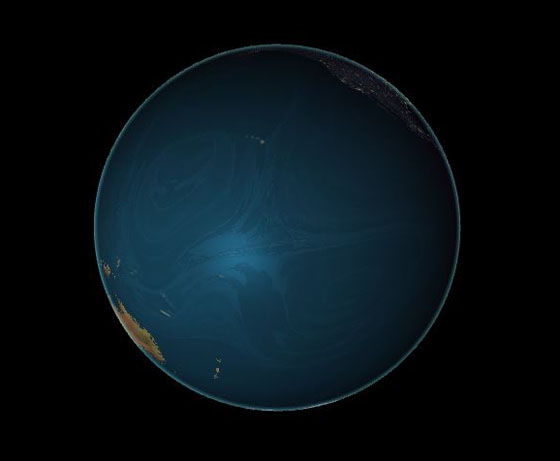
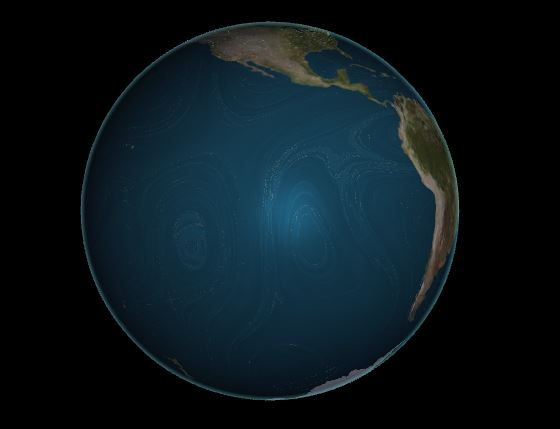
edit water animation

Changed region(s): [[0.1214, 0.0303, 0.8196, 0.9394], [0.3643, 0.7879, 0.3946, 0.8182]]

diff --git a/frag_globe.html b/frag_globe.html
@@ -78,7 +78,8 @@
 
     mat3 eastNorthUpToEyeCoordinates(vec3 positionMC, vec3 normalEC);
 
-    float perlinNoise(vec3 v);
+    //float perlinNoise(vec3 v);
+	float snoise(vec3 v);
 
     void main(void)
     {
@@ -108,11 +109,11 @@
         specular = (oceamTerm > 0.0) ? specular : 0.0;
         
         vec3 dayColor = texture2D(u_DayDiffuse, v_Texcoord).rgb;
-        if (u_movingOceanDisplay == 1 && oceamTerm > 0.0) {
-            float noise = perlinNoise(v_Position+u_time);
+        if (u_movingOceanDisplay == 1 && oceamTerm > 0.5) {
+            float noise = snoise(v_Position+u_time);
             float offsetOceanTerm = texture2D(u_EarthSpec, v_Texcoord+vec2(noise, 0.0)).r;
             vec3 offsetColor = texture2D(u_DayDiffuse, v_Texcoord+vec2(noise, 0.0)).rgb;
-            dayColor = (offsetOceanTerm > 0.8 && offsetColor.r < 0.8) ? offsetColor : dayColor;
+            dayColor = (offsetOceanTerm > 0.5) ? offsetColor : dayColor;
         }
             
         vec3 nightColor = texture2D(u_Night, v_Texcoord).rgb;
@@ -156,33 +157,16 @@
             normalEC.x,    normalEC.y,    normalEC.z);
     }
 
-//
-// GLSL textureless classic 3D noise "cnoise",
-// with an RSL-style periodic variant "pnoise".
-// Author:  Stefan Gustavson (stefan.gustavson@liu.se)
-// Version: 2011-10-11
-//
-// Many thanks to Ian McEwan of Ashima Arts for the
-// ideas for permutation and gradient selection.
-//
-// Copyright (c) 2011 Stefan Gustavson. All rights reserved.
-// Distributed under the MIT license. See LICENSE file.
-// https://github.com/ashima/webgl-noise
-//
-
-vec3 mod289(vec3 x)
-{
+vec3 mod289(vec3 x) {
   return x - floor(x * (1.0 / 289.0)) * 289.0;
 }
 
-vec4 mod289(vec4 x)
-{
+vec4 mod289(vec4 x) {
   return x - floor(x * (1.0 / 289.0)) * 289.0;
 }
 
-vec4 permute(vec4 x)
-{
-  return mod289(((x*34.0)+1.0)*x);
+vec4 permute(vec4 x) {
+     return mod289(((x*34.0)+1.0)*x);
 }
 
 vec4 taylorInvSqrt(vec4 r)
@@ -190,79 +174,80 @@ vec4 taylorInvSqrt(vec4 r)
   return 1.79284291400159 - 0.85373472095314 * r;
 }
 
-vec3 fade(vec3 t) {
-  return t*t*t*(t*(t*6.0-15.0)+10.0);
-}
+float snoise(vec3 v)
+  { 
+  const vec2  C = vec2(1.0/6.0, 1.0/3.0) ;
+  const vec4  D = vec4(0.0, 0.5, 1.0, 2.0);
 
-// Classic Perlin noise
-float perlinNoise(vec3 P)
-{
-  vec3 Pi0 = floor(P); // Integer part for indexing
-  vec3 Pi1 = Pi0 + vec3(1.0); // Integer part + 1
-  Pi0 = mod289(Pi0);
-  Pi1 = mod289(Pi1);
-  vec3 Pf0 = fract(P); // Fractional part for interpolation
-  vec3 Pf1 = Pf0 - vec3(1.0); // Fractional part - 1.0
-  vec4 ix = vec4(Pi0.x, Pi1.x, Pi0.x, Pi1.x);
-  vec4 iy = vec4(Pi0.yy, Pi1.yy);
-  vec4 iz0 = Pi0.zzzz;
-  vec4 iz1 = Pi1.zzzz;
+// First corner
+  vec3 i  = floor(v + dot(v, C.yyy) );
+  vec3 x0 =   v - i + dot(i, C.xxx) ;
 
-  vec4 ixy = permute(permute(ix) + iy);
-  vec4 ixy0 = permute(ixy + iz0);
-  vec4 ixy1 = permute(ixy + iz1);
+// Other corners
+  vec3 g = step(x0.yzx, x0.xyz);
+  vec3 l = 1.0 - g;
+  vec3 i1 = min( g.xyz, l.zxy );
+  vec3 i2 = max( g.xyz, l.zxy );
 
-  vec4 gx0 = ixy0 * (1.0 / 7.0);
-  vec4 gy0 = fract(floor(gx0) * (1.0 / 7.0)) - 0.5;
-  gx0 = fract(gx0);
-  vec4 gz0 = vec4(0.5) - abs(gx0) - abs(gy0);
-  vec4 sz0 = step(gz0, vec4(0.0));
-  gx0 -= sz0 * (step(0.0, gx0) - 0.5);
-  gy0 -= sz0 * (step(0.0, gy0) - 0.5);
+  //   x0 = x0 - 0.0 + 0.0 * C.xxx;
+  //   x1 = x0 - i1  + 1.0 * C.xxx;
+  //   x2 = x0 - i2  + 2.0 * C.xxx;
+  //   x3 = x0 - 1.0 + 3.0 * C.xxx;
+  vec3 x1 = x0 - i1 + C.xxx;
+  vec3 x2 = x0 - i2 + C.yyy; // 2.0*C.x = 1/3 = C.y
+  vec3 x3 = x0 - D.yyy;      // -1.0+3.0*C.x = -0.5 = -D.y
 
-  vec4 gx1 = ixy1 * (1.0 / 7.0);
-  vec4 gy1 = fract(floor(gx1) * (1.0 / 7.0)) - 0.5;
-  gx1 = fract(gx1);
-  vec4 gz1 = vec4(0.5) - abs(gx1) - abs(gy1);
-  vec4 sz1 = step(gz1, vec4(0.0));
-  gx1 -= sz1 * (step(0.0, gx1) - 0.5);
-  gy1 -= sz1 * (step(0.0, gy1) - 0.5);
+// Permutations
+  i = mod289(i); 
+  vec4 p = permute( permute( permute( 
+             i.z + vec4(0.0, i1.z, i2.z, 1.0 ))
+           + i.y + vec4(0.0, i1.y, i2.y, 1.0 )) 
+           + i.x + vec4(0.0, i1.x, i2.x, 1.0 ));
 
-  vec3 g000 = vec3(gx0.x,gy0.x,gz0.x);
-  vec3 g100 = vec3(gx0.y,gy0.y,gz0.y);
-  vec3 g010 = vec3(gx0.z,gy0.z,gz0.z);
-  vec3 g110 = vec3(gx0.w,gy0.w,gz0.w);
-  vec3 g001 = vec3(gx1.x,gy1.x,gz1.x);
-  vec3 g101 = vec3(gx1.y,gy1.y,gz1.y);
-  vec3 g011 = vec3(gx1.z,gy1.z,gz1.z);
-  vec3 g111 = vec3(gx1.w,gy1.w,gz1.w);
+// Gradients: 7x7 points over a square, mapped onto an octahedron.
+// The ring size 17*17 = 289 is close to a multiple of 49 (49*6 = 294)
+  float n_ = 0.142857142857; // 1.0/7.0
+  vec3  ns = n_ * D.wyz - D.xzx;
 
-  vec4 norm0 = taylorInvSqrt(vec4(dot(g000, g000), dot(g010, g010), dot(g100, g100), dot(g110, g110)));
-  g000 *= norm0.x;
-  g010 *= norm0.y;
-  g100 *= norm0.z;
-  g110 *= norm0.w;
-  vec4 norm1 = taylorInvSqrt(vec4(dot(g001, g001), dot(g011, g011), dot(g101, g101), dot(g111, g111)));
-  g001 *= norm1.x;
-  g011 *= norm1.y;
-  g101 *= norm1.z;
-  g111 *= norm1.w;
+  vec4 j = p - 49.0 * floor(p * ns.z * ns.z);  //  mod(p,7*7)
 
-  float n000 = dot(g000, Pf0);
-  float n100 = dot(g100, vec3(Pf1.x, Pf0.yz));
-  float n010 = dot(g010, vec3(Pf0.x, Pf1.y, Pf0.z));
-  float n110 = dot(g110, vec3(Pf1.xy, Pf0.z));
-  float n001 = dot(g001, vec3(Pf0.xy, Pf1.z));
-  float n101 = dot(g101, vec3(Pf1.x, Pf0.y, Pf1.z));
-  float n011 = dot(g011, vec3(Pf0.x, Pf1.yz));
-  float n111 = dot(g111, Pf1);
+  vec4 x_ = floor(j * ns.z);
+  vec4 y_ = floor(j - 7.0 * x_ );    // mod(j,N)
 
-  vec3 fade_xyz = fade(Pf0);
-  vec4 n_z = mix(vec4(n000, n100, n010, n110), vec4(n001, n101, n011, n111), fade_xyz.z);
-  vec2 n_yz = mix(n_z.xy, n_z.zw, fade_xyz.y);
-  float n_xyz = mix(n_yz.x, n_yz.y, fade_xyz.x); 
-  return 2.2 * n_xyz;
-}
+  vec4 x = x_ *ns.x + ns.yyyy;
+  vec4 y = y_ *ns.x + ns.yyyy;
+  vec4 h = 1.0 - abs(x) - abs(y);
+
+  vec4 b0 = vec4( x.xy, y.xy );
+  vec4 b1 = vec4( x.zw, y.zw );
+
+  //vec4 s0 = vec4(lessThan(b0,0.0))*2.0 - 1.0;
+  //vec4 s1 = vec4(lessThan(b1,0.0))*2.0 - 1.0;
+  vec4 s0 = floor(b0)*2.0 + 1.0;
+  vec4 s1 = floor(b1)*2.0 + 1.0;
+  vec4 sh = -step(h, vec4(0.0));
+
+  vec4 a0 = b0.xzyw + s0.xzyw*sh.xxyy ;
+  vec4 a1 = b1.xzyw + s1.xzyw*sh.zzww ;
+
+  vec3 p0 = vec3(a0.xy,h.x);
+  vec3 p1 = vec3(a0.zw,h.y);
+  vec3 p2 = vec3(a1.xy,h.z);
+  vec3 p3 = vec3(a1.zw,h.w);
+
+//Normalise gradients
+  vec4 norm = taylorInvSqrt(vec4(dot(p0,p0), dot(p1,p1), dot(p2, p2), dot(p3,p3)));
+  p0 *= norm.x;
+  p1 *= norm.y;
+  p2 *= norm.z;
+  p3 *= norm.w;
+
+// Mix final noise value
+  vec4 m = max(0.6 - vec4(dot(x0,x0), dot(x1,x1), dot(x2,x2), dot(x3,x3)), 0.0);
+  m = m * m;
+  return 42.0 * dot( m*m, vec4( dot(p0,x0), dot(p1,x1), 
+                                dot(p2,x2), dot(p3,x3) ) );
+  }
 </script>
 <script src ="js/lib/dat.gui.min.js" type ="text/javascript"></script>
 <script src ="js/lib/gl-matrix.js" type ="text/javascript"></script>

diff --git a/README.md b/README.md
@@ -100,8 +100,6 @@ Extra Feature:
 
 Only the ocean should be animated here. So I use `u_EarthSpec` to determine if a fragment is on ocean or land. If it is in ocean, I use the perlin noise the get an offset position of it. And check the new position whether it is also in the ocean by 'u_EarthSpec'. If it is, I will replace the original texture with the offset one.
 
-All the determination is based on the 'u_EarthSpec', which, however, does not totally separate land and ocean space. So there's some artefacts in the result image.
-
 ![ScreenShot](https://github.com/liying3/Project5-WebGL/blob/master/result/part2/ocean.JPG)
 
 * user interface
@@ -130,7 +128,7 @@ It's a library to visualize realize fps and timing.
 
 * perlin noise 
 
-https://github.com/ashima/webgl-noise/blob/master/src/classicnoise3D.glsl
+https://github.com/ashima/webgl-noise/blob/master/src/noise3D.glsl
 
 I use the perlin noise to get an offset position when implementing water animation.
 
